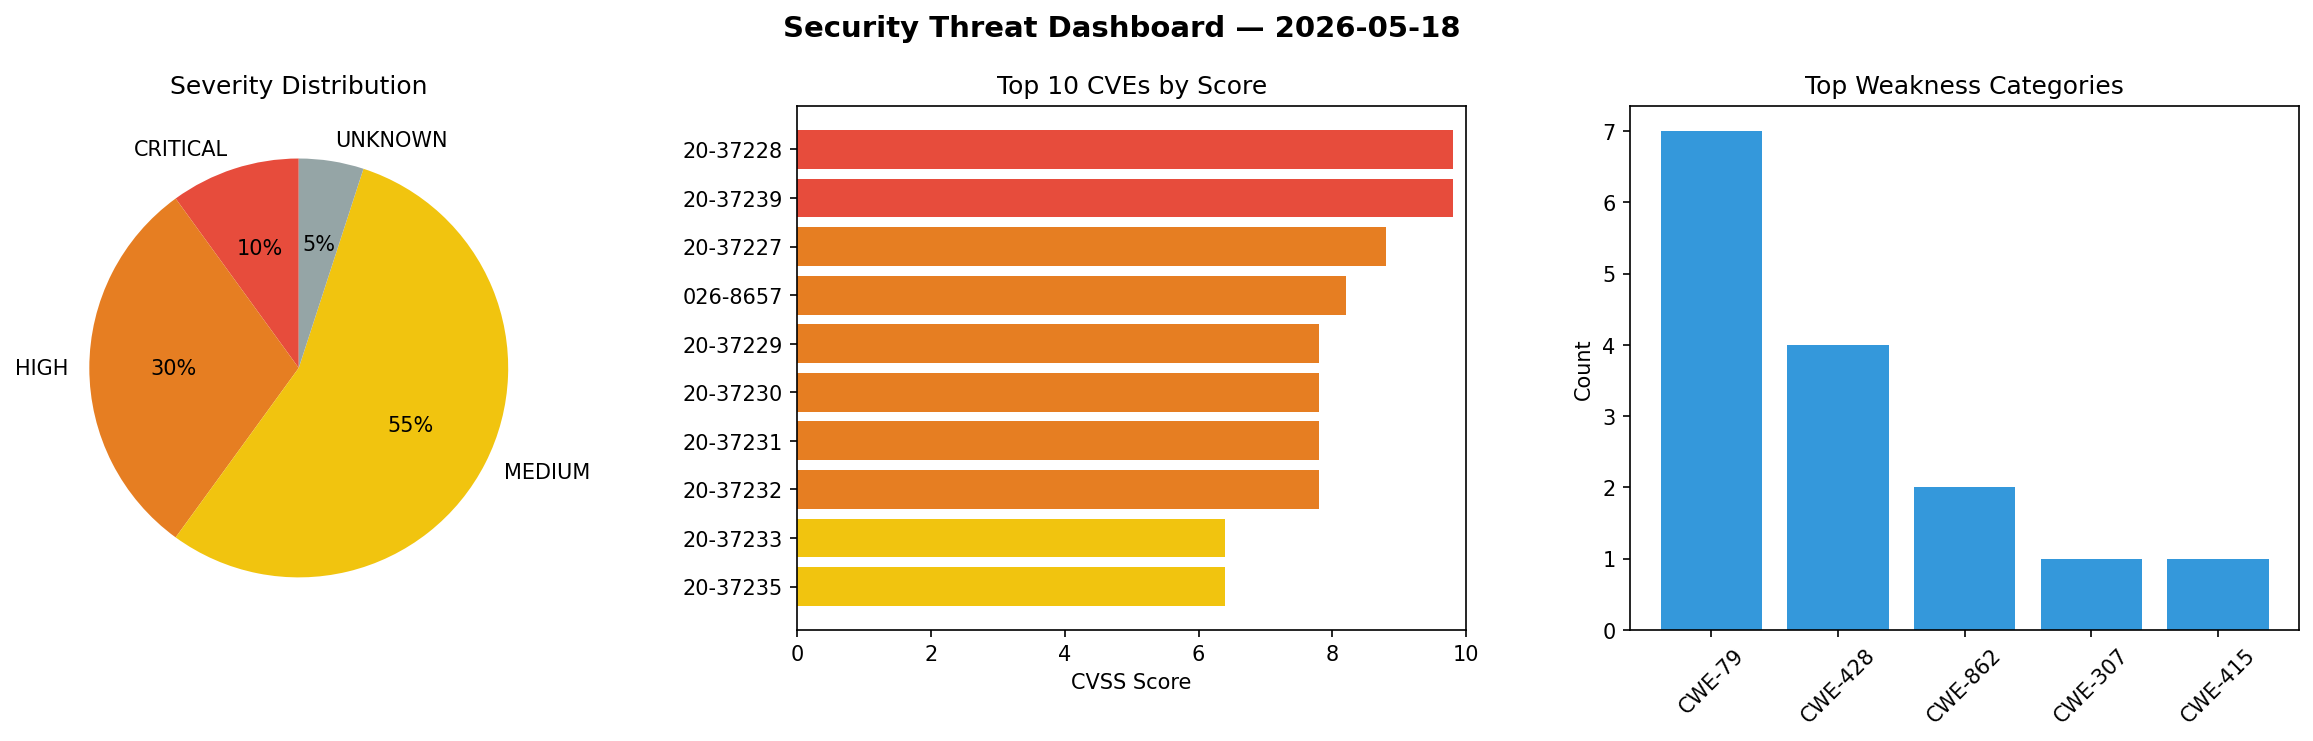
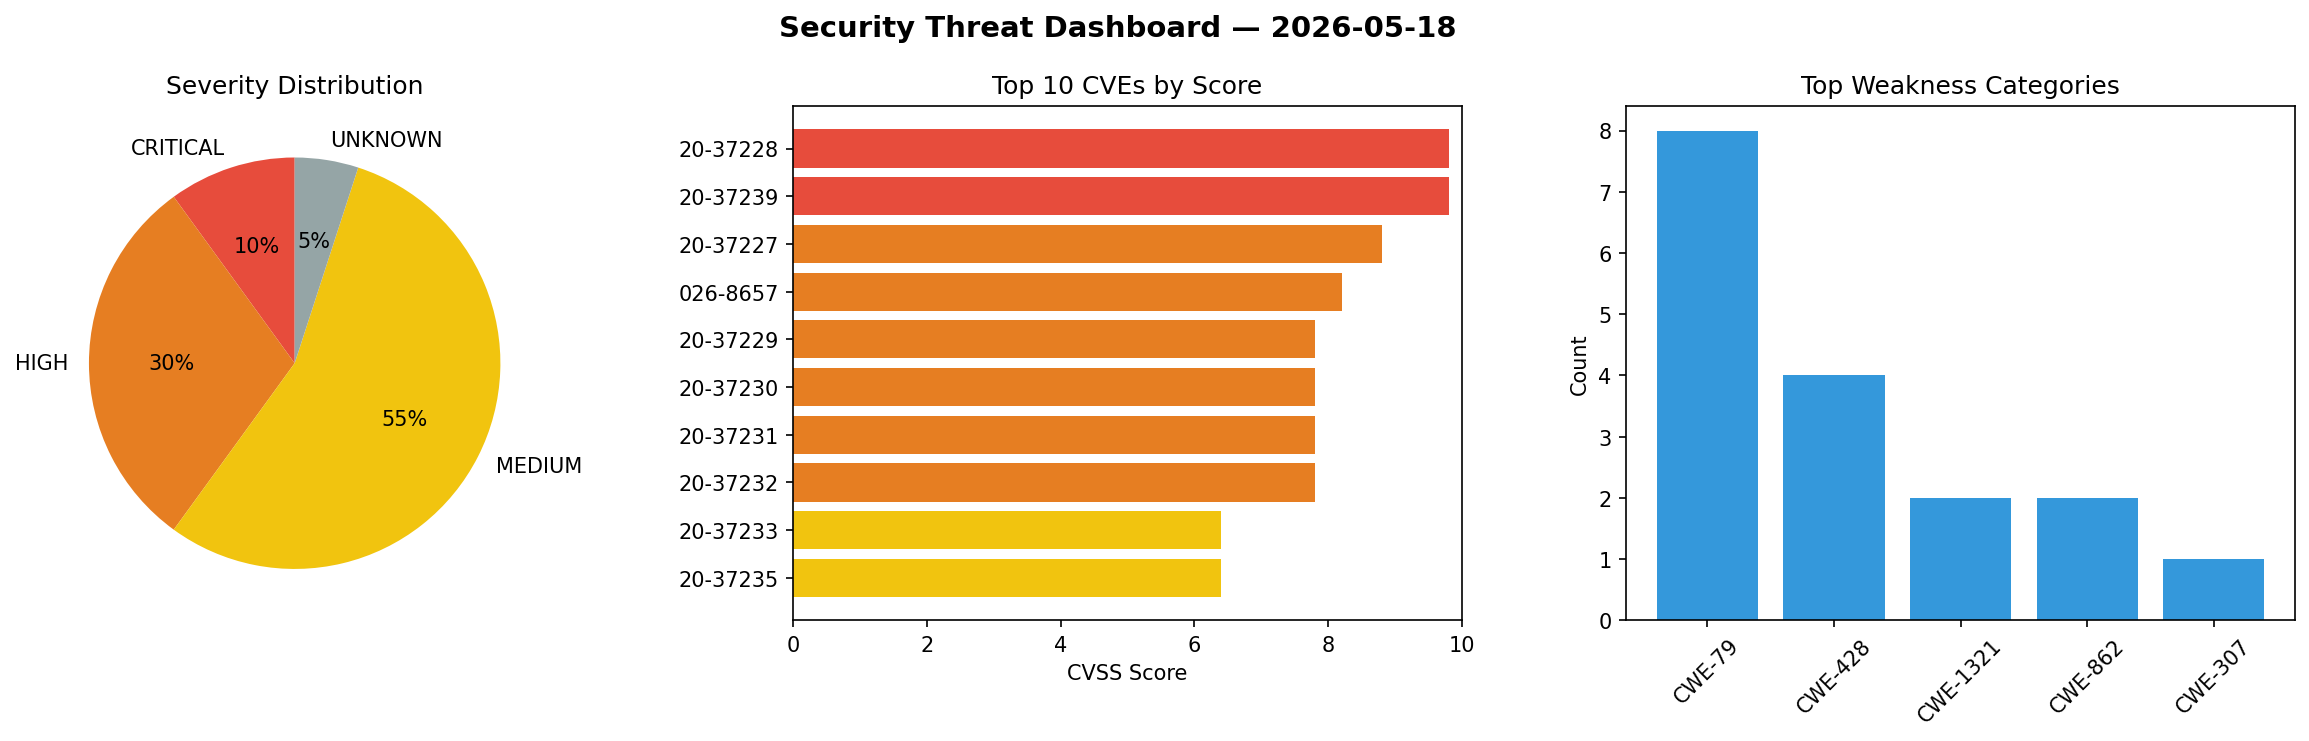
daily-experiments: security scan 2026-05-18T17:13

diff --git a/logs/2026-05-18.md b/logs/2026-05-18.md
@@ -1,6 +1,6 @@
 # Security Scan Report — 2026-05-18
 
-**Scan ID:** `3bc8ba9634` | **CVEs:** 20 | **Threat Index:** 354.2
+**Scan ID:** `3c41e899c2` | **CVEs:** 20 | **Threat Index:** 354.2
 
 ![Dashboard](2026-05-18_dashboard.png)
 
@@ -29,11 +29,11 @@
 
 | CWE | Count |
 |-----|-------|
-| CWE-79 | 7 |
+| CWE-79 | 8 |
 | CWE-428 | 4 |
+| CWE-1321 | 2 |
 | CWE-862 | 2 |
 | CWE-307 | 1 |
-| CWE-415 | 1 |
 
 ## CVE Details
 